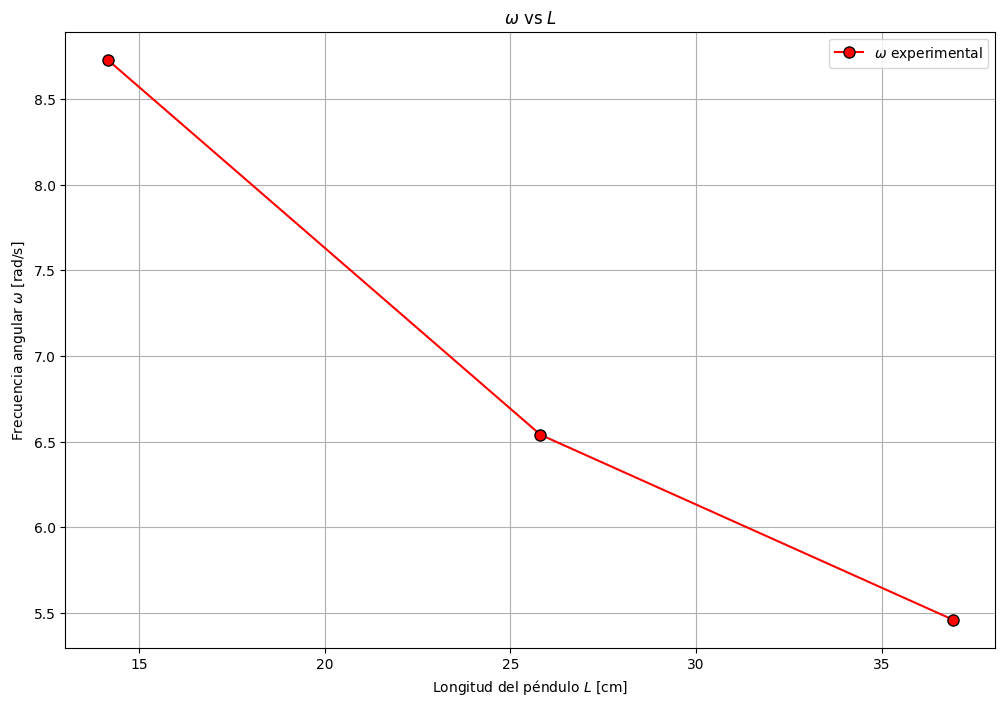
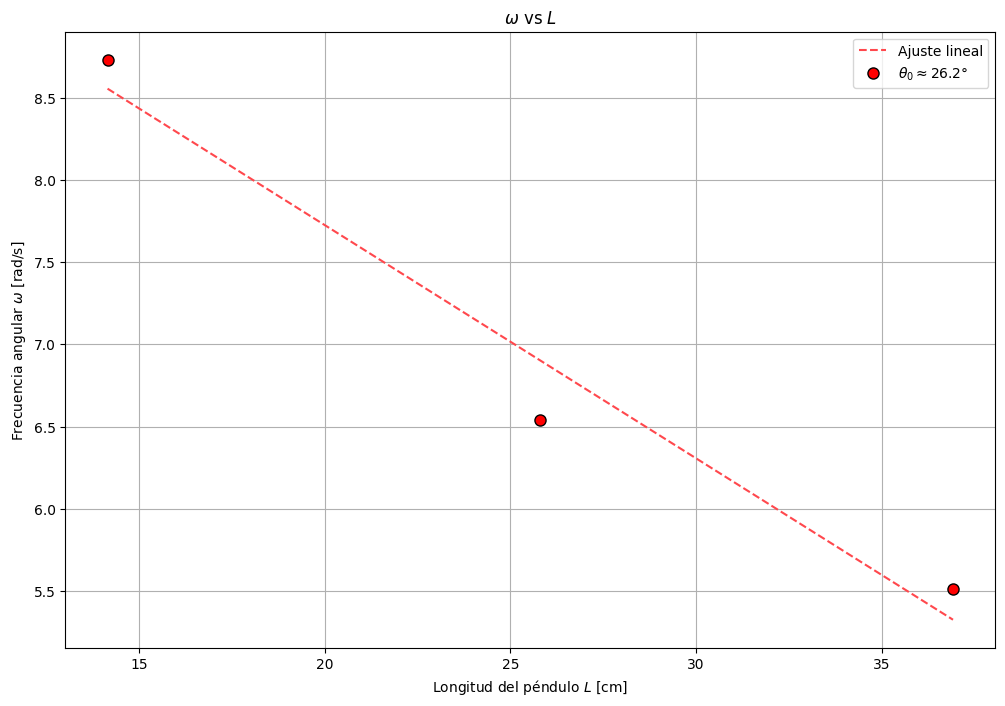
Backup

diff --git a/Code/graphs.py b/Code/graphs.py
@@ -64,9 +64,16 @@ def angleVsAngular():
 def differentLenght():
     w_exp = [df.w for df in DF2]
     l_values = [radius(df) for df in DF2]  # l es el promedio de r en cada experimento
+    initialMean = np.mean([max(DF2[0]['θ']), max(DF2[1]['θ']), max(DF2[2]['θ'])])
 
     plt.figure(figsize=(12,8))
-    plt.plot(l_values, w_exp, '-o', label=r'$\omega$ experimental', markersize=8, color='red', markeredgecolor='black')
+
+    slope, intercept, _, _, _ = linregress(l_values, w_exp)
+    t_fit = np.linspace(min(l_values), max(l_values), 100)
+    theta_fit = slope * t_fit + intercept
+    plt.plot(t_fit, theta_fit, linestyle='--', color='#ff484d', label=rf'Ajuste lineal')
+
+    plt.plot(l_values, w_exp, 'o', markersize=8, color='red', markeredgecolor='black', label=rf'$\theta_0 \approx {initialMean}°, m = $')
 
     plt.xlabel(r'Longitud del péndulo $L$ [cm]')
     plt.ylabel(r'Frecuencia angular $\omega$ [rad/s]')
@@ -87,7 +94,7 @@ def trajectoriesGrid():
     styles = ['-', '--', ':']
     markers = ['o', 's', '^']
     
-    fig, axs = plt.subplots(3, 2, figsize=(14, 12), sharex=True, sharey=True)
+    fig, axs = plt.subplots(6, 1, figsize=(8, 24), sharex=True)
     fig.suptitle(r"Trayectorias angulares ($\theta$ vs $t$)", fontsize=16)
 
     for i, m in enumerate(masses):
@@ -98,28 +105,31 @@ def trajectoriesGrid():
         # L corto (r < 30)
         long_c = [df for df in df_mass if df['r'][0] < 30]
 
-        for j, long_group in enumerate([long_l, long_c]):
-            ax = axs[i, j]
+    
+        idx = 0
+        for i, m in enumerate(masses):
+            df_mass = [df for df in DF_sub if df.m == m]
+            long_l = [df for df in df_mass if df['r'][0] >= 30]
+            long_c = [df for df in df_mass if df['r'][0] < 30]
+            for j, long_group in enumerate([long_l, long_c]):
+                ax = axs[idx]
+                for k, df in enumerate(long_group):
+                    style = styles[k % len(styles)]
+                    marker = markers[k % len(markers)]
+                    col = colors[k % len(colors)]
+                    label = fr"$\theta_0 \approx {max(df['θ']):.1f}$°"
+                    ax.plot(df['t'], df['θ'], linestyle=style, marker=marker,
+                            label=label, markevery=15, color=col)
+                title = "Larga" if j == 0 else "Corta"
+                ax.set_title(rf"$m$ = {m} g, $L$ {title}")
+                ax.grid(True)
+                ax.set_ylabel(r"$\theta(t)$ [$°$]")
+                if idx == 5:
+                    ax.set_xlabel(r"Tiempo [$s$]")
+                ax.legend(fontsize=8)
+                idx += 1
 
-            for k, df in enumerate(long_group):
-                style = styles[k % len(styles)]
-                marker = markers[k % len(markers)]
-                col = colors[k % len(colors)]
-                label = fr"$\theta_0 \approx {max(df['θ']):.1f}$°"
-
-                ax.plot(df['t'], df['θ'], linestyle=style, marker=marker,
-                        label=label, markevery=15, color=col)
-
-            title = "Larga" if j == 0 else "Corta"
-            ax.set_title(rf"$m$ = {m} g, $L$ {title}")
-            ax.grid(True)
-            if j == 0:
-                ax.set_ylabel(r"$\theta(t)$ [$°C$]")
-            if i == 2:
-                ax.set_xlabel(r"Tiempo [$s$]")
-            ax.legend(fontsize=8)
-
-    plt.tight_layout()
+    plt.tight_layout(rect=[0, 0, 1, 0.985])
     plt.savefig("../Graphs/TrajectoriesGrid.png", bbox_inches='tight')
 
 ###### [3] ω 

diff --git a/Code/calcs.py b/Code/calcs.py
@@ -37,7 +37,7 @@ def period(df: pd.DataFrame):
         t1 = df["t"].iloc[maxs[i+1]]
         t0 = df["t"].iloc[maxs[i]]
         periods.append(t1-t0)  
-    
+    2
     return round(np.mean(periods), 2), np.std(periods)
 
 def angularFreq(df: pd.DataFrame):
@@ -101,6 +101,4 @@ def estimateGravity():
     return round(np.mean(samples), 2), samples
 
 if __name__ == '__main__':
-    for i, df in enumerate(DF):
-        print(f'{i+1}. dT->', df.periodError)
-        print(f'{i+1}. dw->', df.angularError)
+    pass

diff --git a/README.md b/README.md
@@ -1,3 +1,5 @@
-# HACER
+# CORRECIONES
 
-- Agregar errores/incertidumbres en los gráficos como la figura 3
+- En Trayectorias poner que también cambia w según el ángulo por trabajar con péndulo físico y no ideal
+- En 4.2 cambiar que las relaciones son todas "iguales" a "Muy parecidas"
+- Poner gráfico
